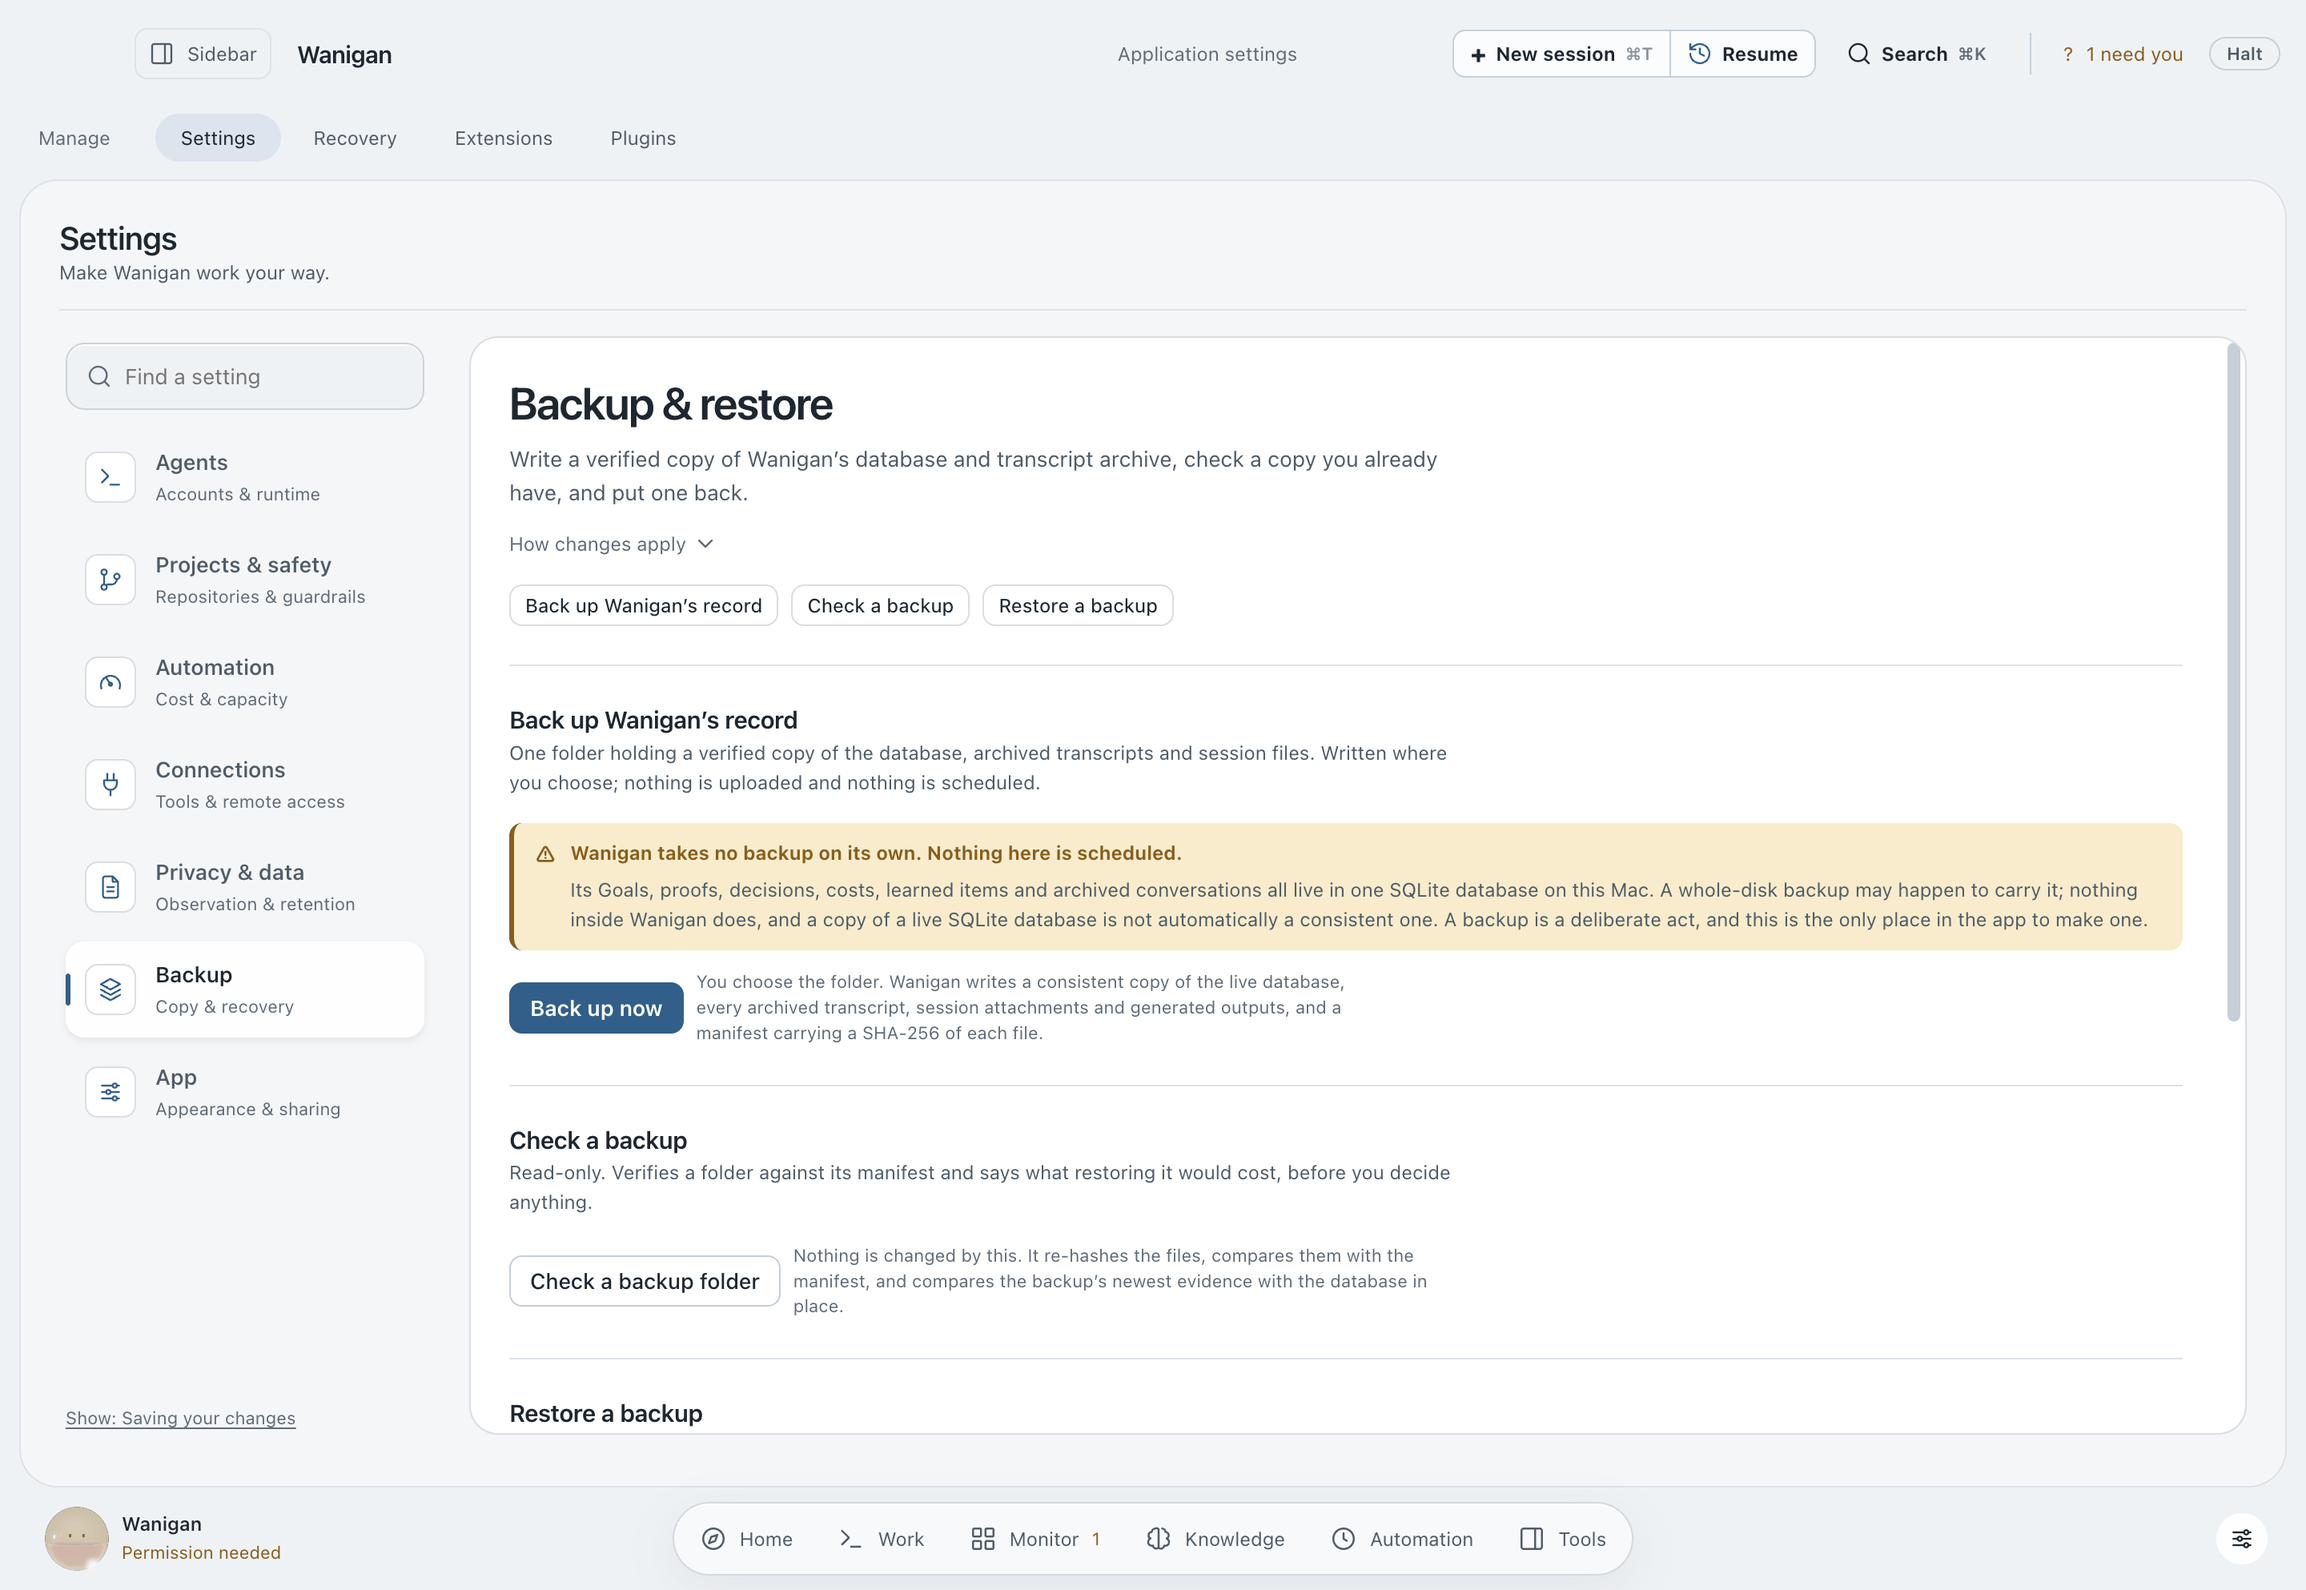
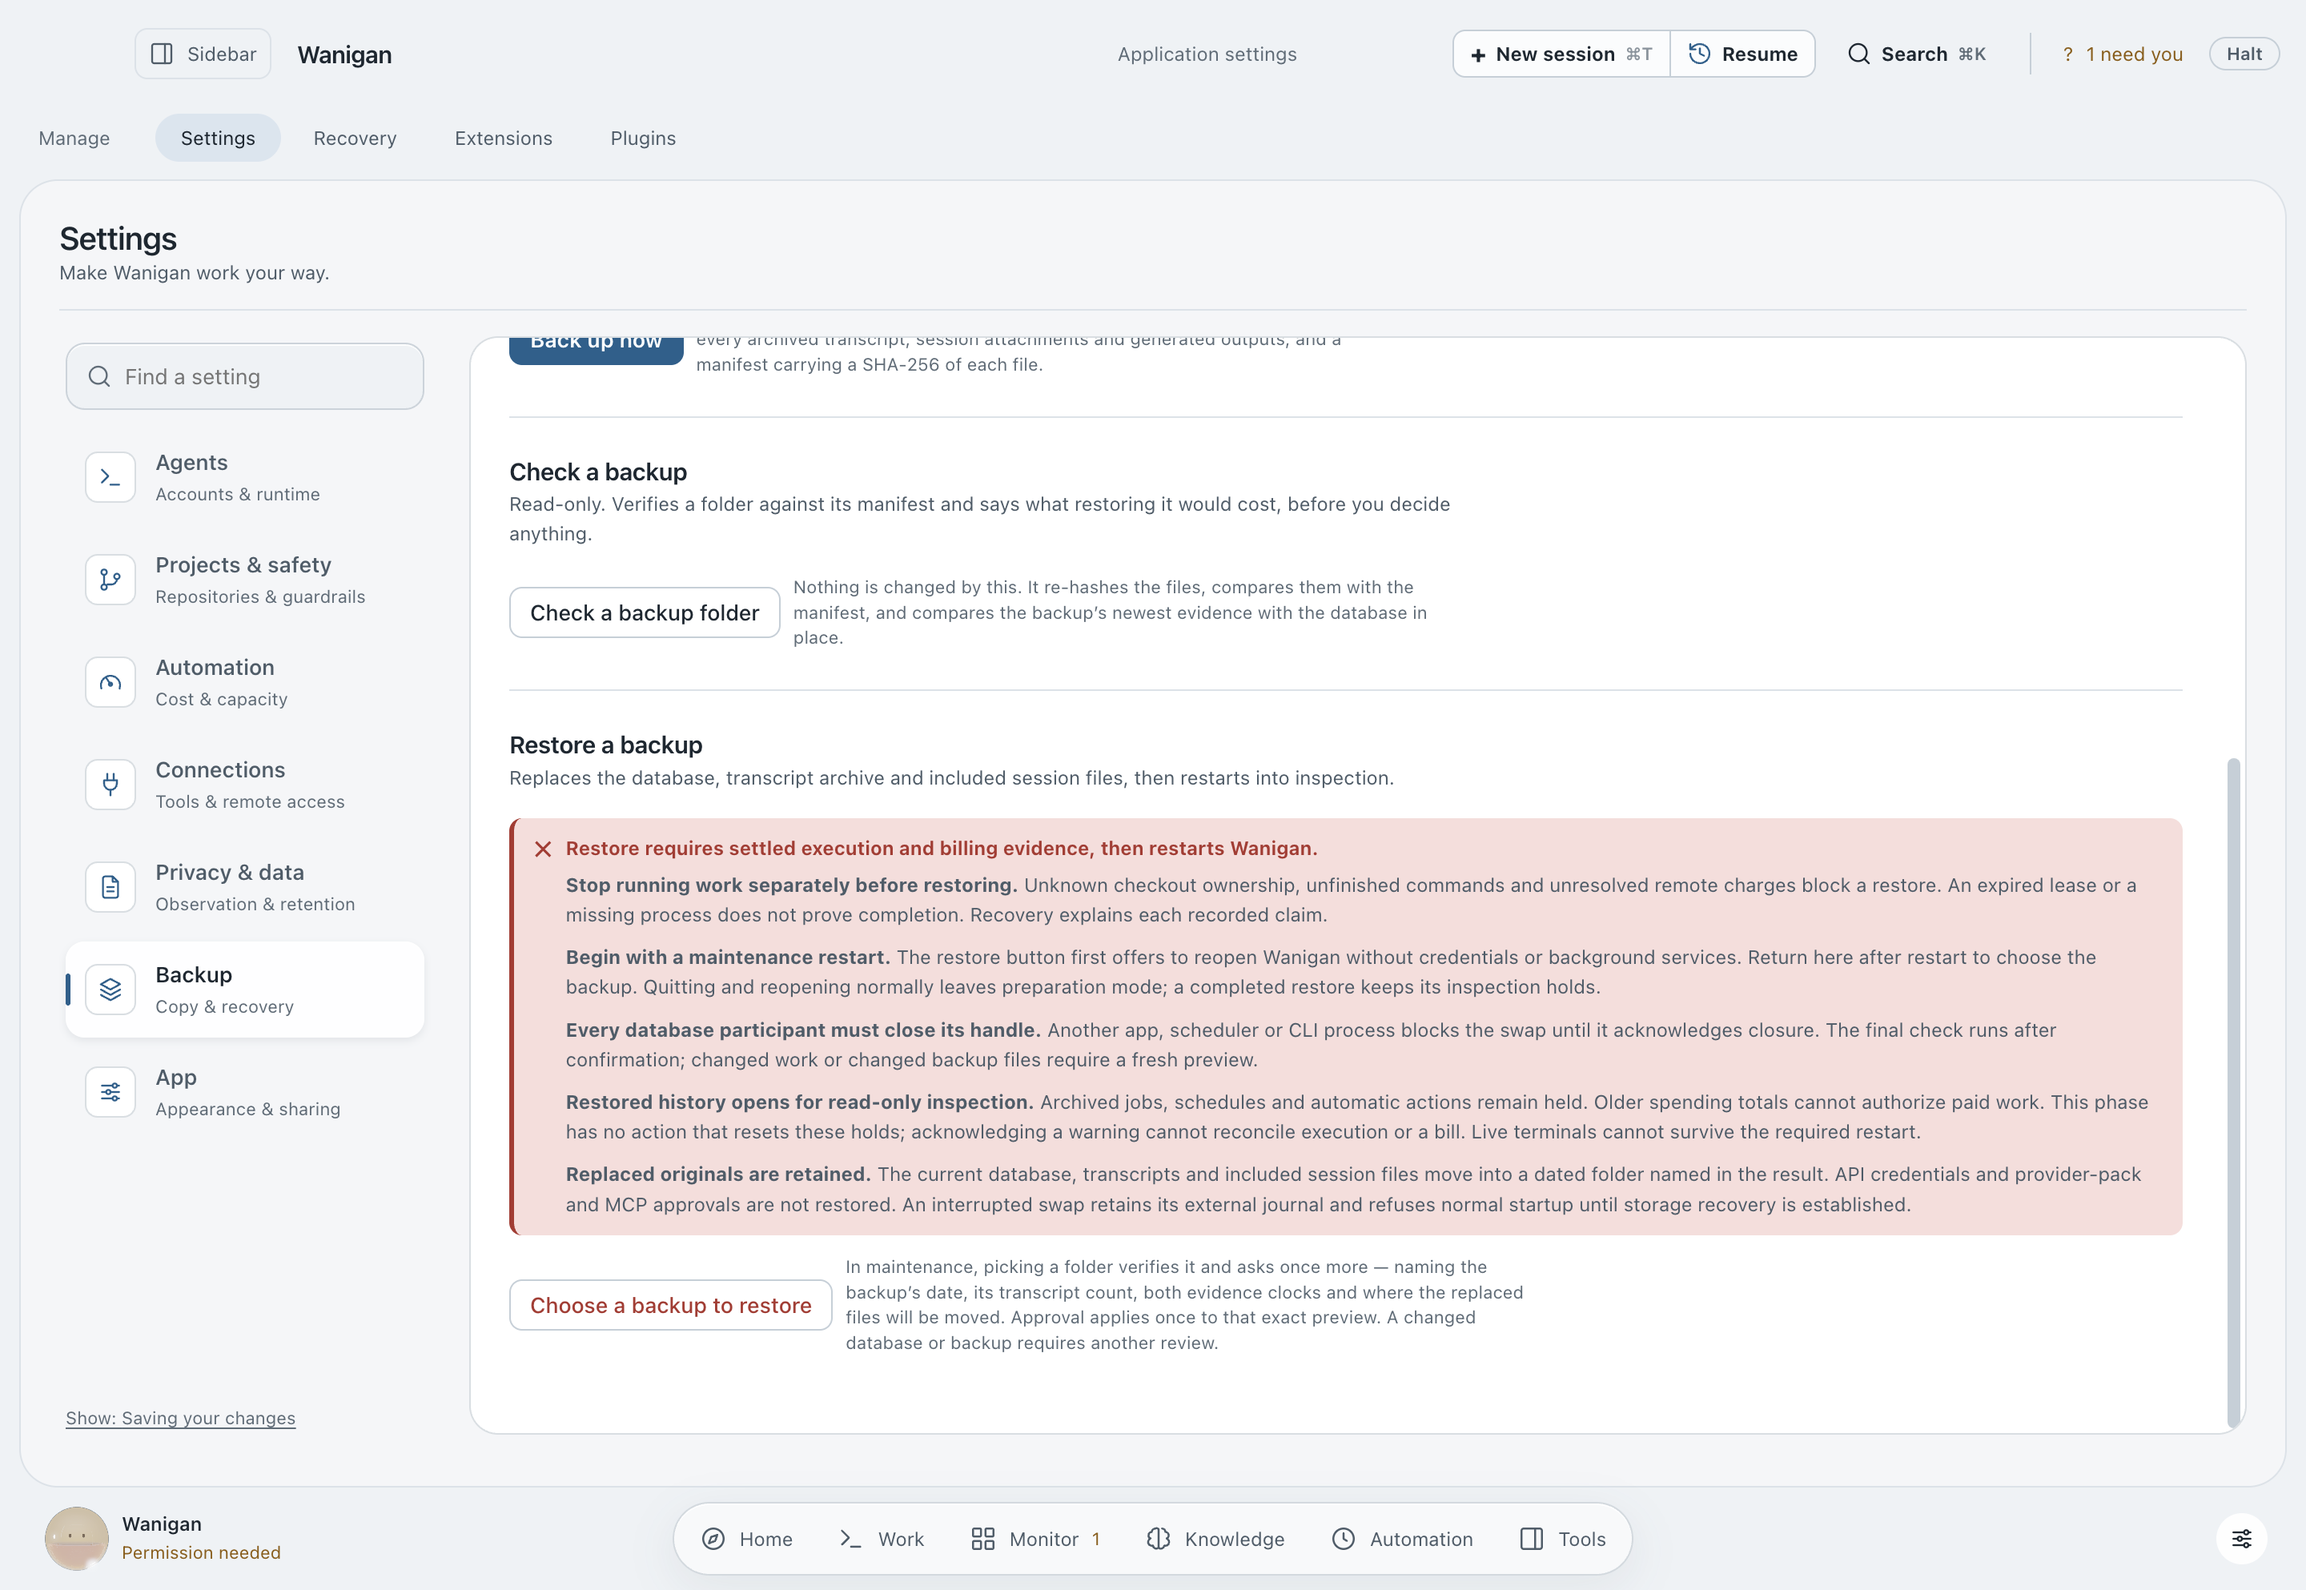
fix(backup): capture the Restore section and space its note's paragraphs
The recovery probe's backup-restore capture showed the Backup overview twice:
the Restore heading was already at the pane's edge, so scrollIntoViewIfNeeded
did nothing. It now scrolls the section to the top. The corrected capture
showed two paragraphs of the restore note running together, because one of
five carried no inline margin. Spacing moves to one token rule in the settings
sheet and the inline margins go, taking the renderer's inline style objects
from 833 to 830.

npm test exits 0 on this tree (smoke 2,701 passed, 0 failed). After captures
regenerated in both themes from a fresh build.

diff --git a/src/renderer/src/views/Settings.tsx b/src/renderer/src/views/Settings.tsx
@@ -319,7 +319,7 @@ function Callout({ level = 'warning', title, children }: {
       <span aria-hidden="true" style={{ color: m.fg, fontWeight: 700, lineHeight: 1.4 }}>{m.glyph}</span>
       <div style={{ minWidth: 0 }}>
         <div style={{ color: m.fg, fontWeight: 650, fontSize: 'var(--t-small)', lineHeight: 1.45 }}>{title}</div>
-        {children ? <div className="dim" style={{ fontSize: 'var(--t-small)', lineHeight: 1.55, marginTop: 5 }}>{children}</div> : null}
+        {children ? <div className="dim settings-callout-body" style={{ fontSize: 'var(--t-small)', lineHeight: 1.55, marginTop: 5 }}>{children}</div> : null}
       </div>
     </div>
   );
@@ -5967,13 +5967,13 @@ function Backup() {
             unfinished commands and unresolved remote charges block a restore. An expired lease or a
             missing process does not prove completion. Recovery explains each recorded claim.
           </p>
-          <p style={{ marginTop: 6 }}>
+          <p>
             <strong>Begin with a maintenance restart.</strong> The restore button first offers to
             reopen Wanigan without credentials or background services. Return here after restart to
             choose the backup. Quitting and reopening normally leaves preparation mode; a completed
             restore keeps its inspection holds.
           </p>
-          <p style={{ marginTop: 6 }}>
+          <p>
             <strong>Every database participant must close its handle.</strong> Another app, scheduler
             or CLI process blocks the swap until it acknowledges closure. The final check runs after
             confirmation; changed work or changed backup files require a fresh preview.
@@ -5984,7 +5984,7 @@ function Backup() {
             This phase has no action that resets these holds; acknowledging a warning cannot reconcile
             execution or a bill. Live terminals cannot survive the required restart.
           </p>
-          <p style={{ marginTop: 6 }}>
+          <p>
             <strong>Replaced originals are retained.</strong> The current database, transcripts and
             included session files move into a dated folder named in the result. API credentials and
             provider-pack and MCP approvals are not restored. An interrupted swap retains its external

diff --git a/src/renderer/src/styles/settings.css b/src/renderer/src/styles/settings.css
@@ -477,3 +477,7 @@ a.set-mini, a.btn { text-decoration: none; }
   .set-keys-row { grid-template-columns: minmax(0, 1fr) auto; }
   .set-keys-actions { grid-column: 1 / -1; justify-content: flex-start; }
 }
+
+/* A callout that runs to several paragraphs spaces them here, so one written
+   without an inline margin cannot run into the paragraph above it. */
+.settings-callout-body p + p { margin-top: var(--s-2); }

diff --git a/docs/research/2026-09-19-relay-recovery-platform-evidence.md b/docs/research/2026-09-19-relay-recovery-platform-evidence.md
@@ -66,7 +66,7 @@ Not fenced at the transport, by decision rather than oversight: model and backen
 
 The native lifecycle probe's seven-check version ran for the first time against this revision and initially failed its sixth check. The refusal itself was correct, but the host's started-services guard answered before required Storage and told the operator to "retry local services", which cannot work in a maintenance startup. Required Storage now answers a held channel first (`storageIpcRefusal`), and **all seven checks pass**: launch through a real PTY, normal quit and drain, reopen without relaunch, no residual claim, a fresh `--storage-maintenance` start with zero credential calls and a real Backup create/inspect, refusal of execution, model refresh and provider discovery, and a startup retry that stays in maintenance.
 
-Final verification on this revision, Node 22.23.2, isolated temporary roots, no provider calls, $0 spent: `npm test` exited 0 across all eight gates with smoke at **2,701 passed, 0 failed**, followed by the execution-recovery suites; `npm run build`, `npm run probe:terminal`, `node scripts/probe-recovery-native.mjs` (7/7) and `node scripts/probe-recovery.mjs` (both themes, no page errors) exited 0, and `git diff --check` was clean. Known presentation gap: `after/backup-restore-*.png` captures the top of the Backup pane rather than the Restore section, so the restart-for-restore copy is evidenced by the Backup module fixture and the native probe, not by a screenshot.
+Final verification on this revision, Node 22.23.2, isolated temporary roots, no provider calls, $0 spent: `npm test` exited 0 across all eight gates with smoke at **2,701 passed, 0 failed**, followed by the execution-recovery suites; `npm run build`, `npm run probe:terminal`, `node scripts/probe-recovery-native.mjs` (7/7) and `node scripts/probe-recovery.mjs` (both themes, no page errors) exited 0, and `git diff --check` was clean. The first `after/backup-restore-*.png` capture showed the Backup overview twice, because a heading already at the pane's edge made `scrollIntoViewIfNeeded` a no-op; the probe now scrolls the Restore section to the top, and the recapture exposed and fixed two restore-note paragraphs that ran together.
 
 ## Renderer and native fixture provenance
 
